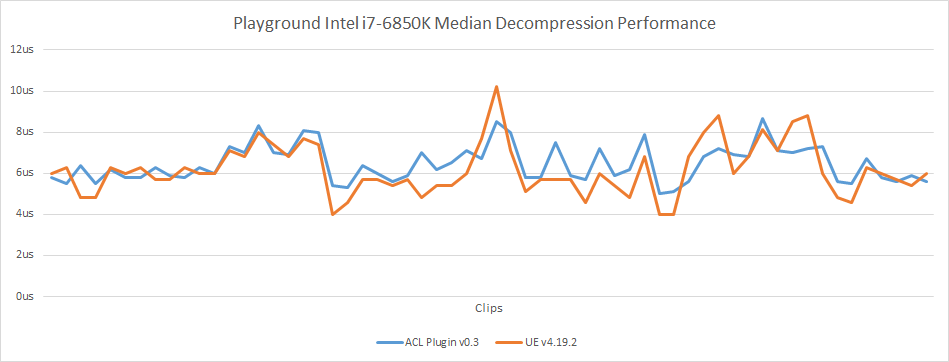
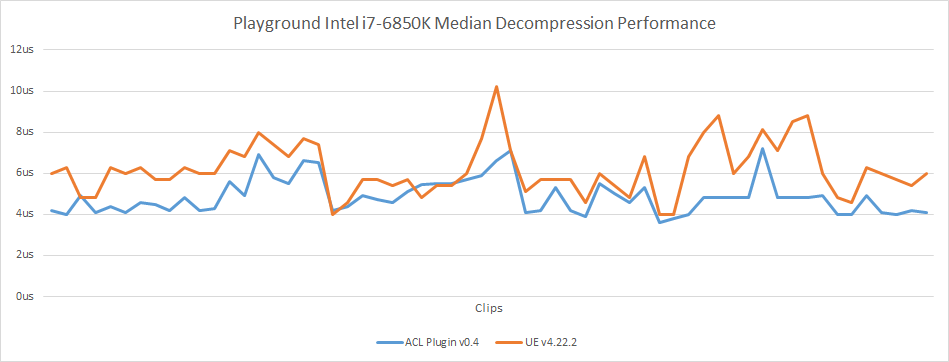
docs(misc): update decompression performance stats

Changed region(s): [[0.0611, 0.3343, 0.9779, 0.6381], [0.3056, 0.3343, 0.3361, 0.395], [0.5806, 0.942, 0.6112, 0.9724]]

diff --git a/README.md b/README.md
@@ -6,9 +6,7 @@
 
 This plugin integrates the [Animation Compression Library](https://github.com/nfrechette/acl) version [v1.2.0](https://github.com/nfrechette/acl/releases/tag/v1.2.0) within [Unreal Engine 4](https://www.unrealengine.com/en-US/blog). It is suitable for every animation clip and platform as it features a low memory footprint, high accuracy, and very fast compression and decompression.
 
-Compared to **UE 4.19.2**, the ACL plugin compresses up to **1.7x smaller**, is up to **3x more accurate**, up to **158x faster to compress**, and up to **7.5x faster to decompress** (results may vary depending on the platform and data).
-
-*Note that UE 4.21 introduced changes that significantly sped up the compression with its Automatic Compression codec.*
+Compared to **UE 4.22.2**, the ACL plugin compresses up to **2.7x smaller**, is up to **3x more accurate**, up to **34x faster to compress**, and up to **5.2x faster to decompress** (results may vary depending on the platform and data).
 
 The documentation on how to use it can be found [here](./Docs/README.md) along with performance results.
 
